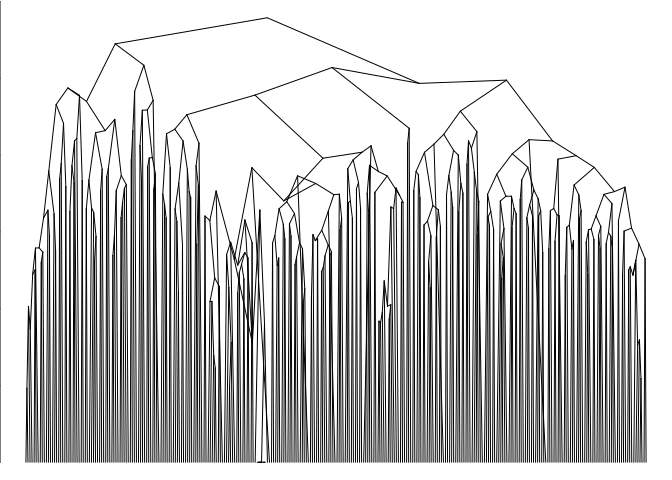
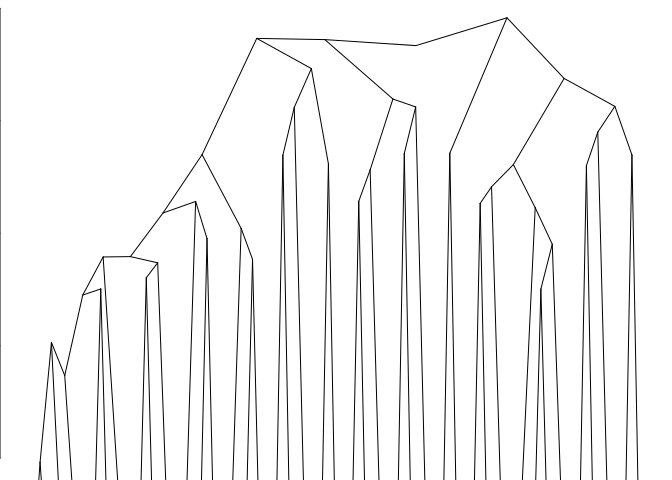
updated README before submission

diff --git a/README.md b/README.md
@@ -60,11 +60,20 @@ image(ld.ceph, lwd = 0)
 ``` r
 
 fit <- snpClust(geno, stats = "R.squared", h = h)
-#> Note: 125 merges with non increasing heights.
+#> Note: 132 merges with non increasing heights.
 plot(fit)
+#> Warning in plot.chac(fit): 
+#> Detected reversals in dendrogram: mode = 'corrected', 'within-disp' or 'total-disp' might be more relevant.
 ```
 
 ![](man/figures/README-snpClust-2.png)
+
+``` r
+sel_clust <- select(fit, "bs")
+plotSim(as.matrix(ld.ceph), clustering = sel_clust, dendro = fit)
+```
+
+![](man/figures/README-snpClust-3.png)
 
 `hicClust`
 ----------
@@ -73,15 +82,18 @@ plot(fit)
 
 ``` r
 library("HiTC")
+#> Warning: multiple methods tables found for 'acbind'
+#> Warning: multiple methods tables found for 'arbind'
+#> Warning: multiple methods tables found for 'rglist'
 ```
 
 ``` r
-data("hic_imr90_40_XX", package = "adjclust")
+load(system.file("extdata", "hic_imr90_40_XX.rda", package = "adjclust"))
 binned <- binningC(hic_imr90_40_XX, binsize = 5e5)
-#> Bin size 'xgi' =501579 [1x501579]
-#> Bin size 'ygi' =501579 [1x501579]
+#> Bin size 'xgi' =500488 [1x500488]
+#> Bin size 'ygi' =500488 [1x500488]
 mapC(binned)
-#> minrange= 12  - maxrange= 1022
+#> minrange= 104  - maxrange= 36776.8
 ```
 
 ![](man/figures/README-hicClust-1.png)
@@ -89,11 +101,19 @@ mapC(binned)
 ``` r
 
 fitB <- hicClust(binned)
-#> Note: 32 merges with non increasing heights.
+#> Note: 5 merges with non increasing heights.
 plot(fitB)
+#> Warning in plot.chac(fitB): 
+#> Detected reversals in dendrogram: mode = 'corrected', 'within-disp' or 'total-disp' might be more relevant.
 ```
 
 ![](man/figures/README-hicClust-2.png)
+
+``` r
+plotSim(intdata(binned), dendro = fitB) # default: log scale for colors
+```
+
+![](man/figures/README-hicClust-3.png)
 
 Credits
 -------
